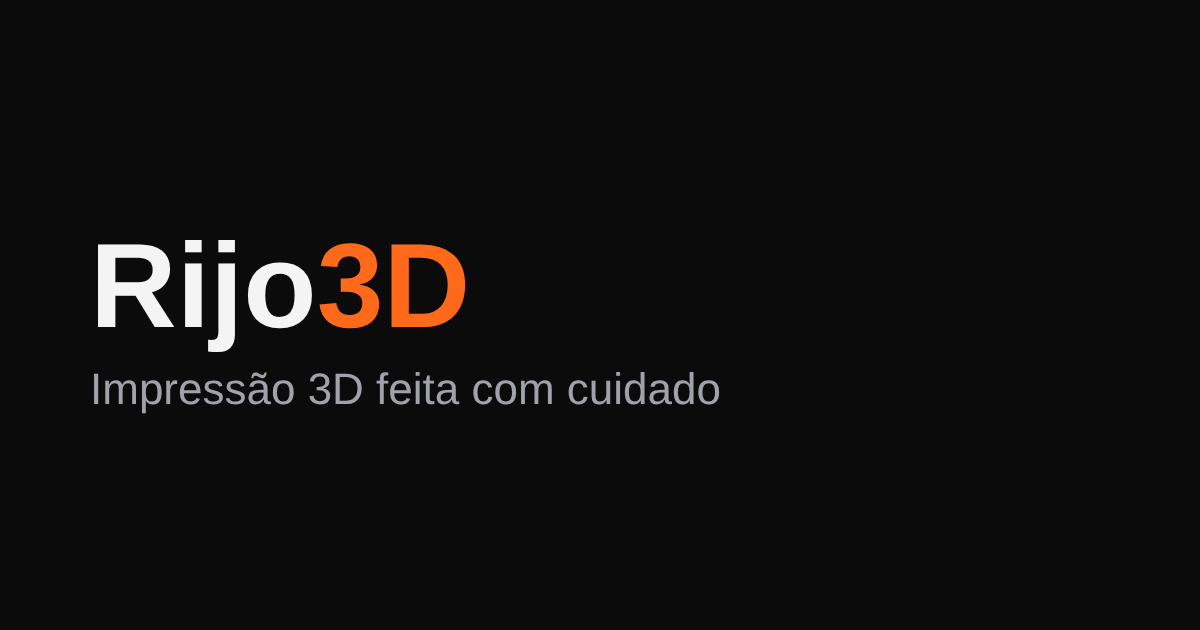
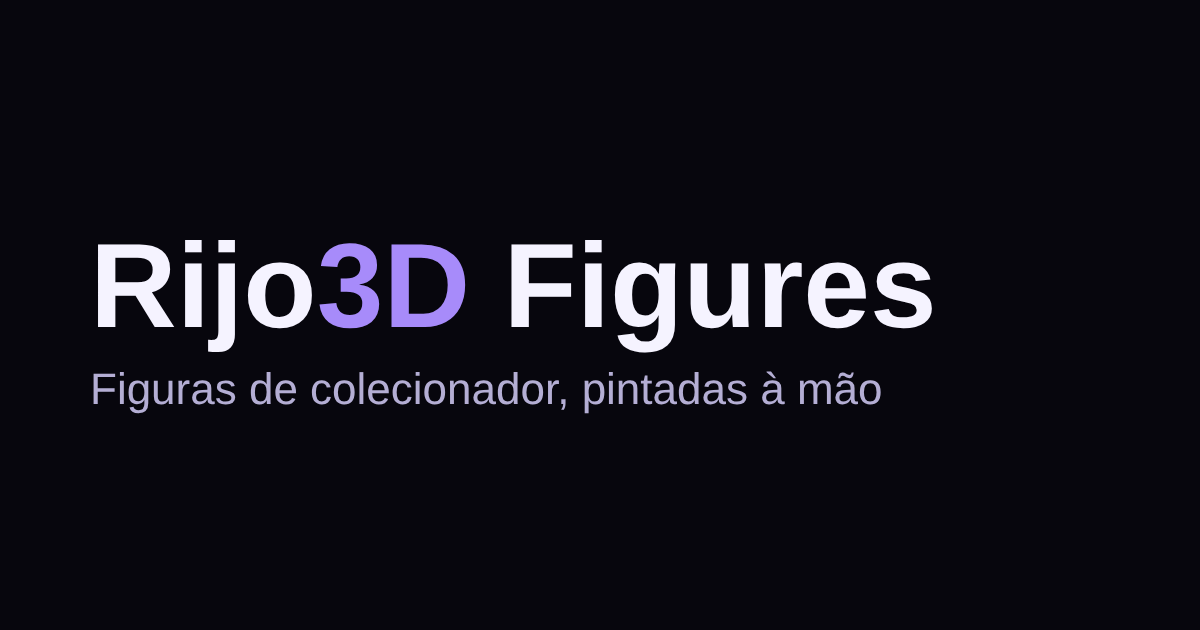
feat: identidade violeta/azul, hero com peça em destaque e textos da cliente
Claude-Session: https://claude.ai/code/session_01UwGUxMdooXWD4wQNEGgByc

Changed region(s): [[0.2467, 0.3619, 0.8017, 0.573], [0.0617, 0.573, 0.74, 0.6635]]

diff --git a/index.html b/index.html
@@ -3,16 +3,16 @@
 <head>
   <meta charset="utf-8">
   <meta name="viewport" content="width=device-width, initial-scale=1">
-  <title>Rijo3d — Impressão 3D</title>
+  <title>Rijo3D Figures — Estátuas em resina pintadas à mão</title>
   <!-- TODO-CLIENTE: confirmar domínio (canonical, og:url, og:image, sitemap.xml) e texto da descrição -->
-  <meta name="description" content="Rijo3d: impressão 3D feita com cuidado. Vê os nossos trabalhos, conhece a história e pede a tua encomenda diretamente pelo site.">
-  <meta name="theme-color" content="#0b0b0c">
+  <meta name="description" content="Rijo3D Figures: estátuas de colecionador em resina, impressas em 3D e pintadas à mão. Enviadas de Portugal. Compra na Etsy ou pede uma versão à tua medida.">
+  <meta name="theme-color" content="#07060d">
   <link rel="canonical" href="https://rijo3d.pt/">
   <meta property="og:type" content="website">
   <meta property="og:locale" content="pt_PT">
-  <meta property="og:site_name" content="Rijo3d">
-  <meta property="og:title" content="Rijo3d — Impressão 3D">
-  <meta property="og:description" content="Impressão 3D feita com cuidado. Vê os trabalhos e pede a tua encomenda.">
+  <meta property="og:site_name" content="Rijo3D">
+  <meta property="og:title" content="Rijo3D Figures — Estátuas pintadas à mão">
+  <meta property="og:description" content="Estátuas de colecionador em resina, pintadas à mão. Compra na Etsy ou pede à tua medida.">
   <meta property="og:url" content="https://rijo3d.pt/">
   <meta property="og:image" content="https://rijo3d.pt/images/og.png">
   <link rel="preconnect" href="https://fonts.googleapis.com">
@@ -38,15 +38,26 @@
   </header>
   <main>
     <section id="inicio" class="hero">
-      <div class="container">
-        <p class="hero__etiqueta">Impressão 3D</p>
-        <!-- TODO-CLIENTE: confirmar título e frase de apoio -->
-        <h1>Ideias que ganham forma, camada a camada.</h1>
-        <p class="hero__texto">Peças impressas em 3D feitas com cuidado, desde protótipos a objetos para o dia a dia.</p>
-        <div class="hero__acoes">
-          <a class="btn btn--primario" href="#encomendas">Pedir encomenda</a>
-          <a class="btn" href="#pecas">Ver peças</a>
+      <div class="container hero__grelha">
+        <div class="hero__texto-bloco">
+          <p class="hero__etiqueta">Rijo3D Figures</p>
+          <!-- TODO-CLIENTE: confirmar título e frase de apoio -->
+          <h1>Figuras de colecionador, pintadas à mão.</h1>
+          <p class="hero__texto">Estátuas em resina impressas em 3D e enviadas de Portugal. Compra na Etsy ou pede uma versão à tua medida.</p>
+          <div class="hero__acoes">
+            <a class="btn btn--primario" href="#pecas">Ver peças</a>
+            <a class="btn" href="#encomendas">Pedir encomenda</a>
+          </div>
+          <ul class="hero__confianca">
+            <li>Pintado à mão</li>
+            <li>Envio de Portugal</li>
+            <li>Devoluções em 14 dias</li>
+          </ul>
         </div>
+        <figure class="hero__visual">
+          <!-- TODO-CLIENTE: trocar por foto real de uma peça -->
+          <img src="images/pecas/kokushibo-1.webp" alt="Estátua do Kokushibo com espada, rodeado por uma lua roxa" width="1000" height="1257" fetchpriority="high">
+        </figure>
       </div>
     </section>
     <section id="pecas">
@@ -69,9 +80,9 @@
     <section id="sobre">
       <div class="container texto-coluna">
         <h2>Quem somos</h2>
-        <!-- TODO-CLIENTE: substituir pela história real e pela origem da ideia -->
-        <p>A Rijo3d dedica-se à impressão 3D. Cada peça é pensada e impressa com atenção ao detalhe, do primeiro desenho ao acabamento.</p>
-        <p>Aqui vais encontrar alguns dos trabalhos feitos e podes pedir a tua encomenda diretamente por este site.</p>
+        <!-- TODO-CLIENTE: acrescentar a história real e a origem da ideia -->
+        <p>Na Rijo3D, transformamos ideias em realidade com tecnologia, criatividade e muita paixão.</p>
+        <p>Cada estátua é impressa em 3D, em resina, e pintada à mão. Podes comprar as peças da loja na Etsy ou pedir-nos uma versão à tua medida.</p>
       </div>
     </section>
     <section id="encomendas">
@@ -121,10 +132,15 @@
           <li><span>Email</span><a href="mailto:email@exemplo.pt">email@exemplo.pt</a></li>
           <li><span>Telefone</span><a href="tel:+351000000000">+351 000 000 000</a></li>
           <li><span>WhatsApp</span><a href="https://wa.me/351000000000">Enviar mensagem</a></li>
+          <li><span>Instagram</span><a href="https://www.instagram.com/TODO-CLIENTE/" target="_blank" rel="noopener noreferrer">@TODO-CLIENTE</a></li>
+          <li><span>Etsy</span><a href="https://www.etsy.com/pt/shop/Rijo3D" target="_blank" rel="noopener noreferrer">Loja Rijo3D</a></li>
         </ul>
       </div>
     </section>
   </main>
+  <footer class="rodape">
+    <div class="container"><p>Rijo3D · Portugal</p></div>
+  </footer>
   <script type="module" src="js/main.js"></script>
 </body>
 </html>

diff --git a/css/styles.css b/css/styles.css
@@ -1,12 +1,14 @@
-/* TODO-CLIENTE: cores e tipografia provisórias; substituir pelas da marca */
+/* TODO-CLIENTE: cores tiradas do banner da Etsy; confirmar com o logótipo */
 :root {
-  --cor-fundo: #0b0b0c;
-  --cor-superficie: #151517;
-  --cor-texto: #f4f4f5;
-  --cor-texto-suave: #a1a1aa;
-  --cor-destaque: #ff6a1a;
-  --cor-sobre-destaque: #120a04;
-  --cor-borda: #2a2a2e;
+  --cor-fundo: #07060d;
+  --cor-superficie: #120f1f;
+  --cor-texto: #f5f3ff;
+  --cor-texto-suave: #b4aed4;
+  --cor-borda: #2a2543;
+  --cor-destaque: #a78bfa;
+  --cor-destaque-a: #7c3aed;
+  --cor-destaque-b: #2563eb;
+  --cor-sobre-destaque: #ffffff;
   --fonte-titulo: "Space Grotesk", system-ui, sans-serif;
   --fonte-corpo: "Archivo", system-ui, sans-serif;
   --espaco-1: 0.25rem;
@@ -37,7 +39,7 @@ a { color: inherit; }
 
 .skip-link {
   position: absolute; left: var(--espaco-3); top: -4rem;
-  background: var(--cor-destaque); color: var(--cor-sobre-destaque);
+  background: var(--cor-destaque-a); color: var(--cor-sobre-destaque);
   padding: var(--espaco-2) var(--espaco-3); border-radius: 8px; z-index: 20;
 }
 .skip-link:focus { top: var(--espaco-3); }
@@ -52,13 +54,13 @@ a { color: inherit; }
   transition: background-color 0.2s ease, border-color 0.2s ease, transform 0.2s ease;
 }
 .btn:hover { border-color: var(--cor-texto-suave); background: var(--cor-superficie); }
-.btn--primario { background: var(--cor-destaque); border-color: var(--cor-destaque); color: var(--cor-sobre-destaque); }
-.btn--primario:hover { background: #ff8340; border-color: #ff8340; }
+.btn--primario { background: linear-gradient(135deg, var(--cor-destaque-a), var(--cor-destaque-b)); border-color: transparent; color: var(--cor-sobre-destaque); }
+.btn--primario:hover { border-color: transparent; background: linear-gradient(135deg, var(--cor-destaque-a), var(--cor-destaque-b)); box-shadow: 0 0 28px -4px var(--cor-destaque-a); }
 
 /* Cabeçalho */
 .site-header {
   position: sticky; top: 0; z-index: 10;
-  background: rgba(11, 11, 12, 0.9); backdrop-filter: blur(8px);
+  background: rgba(7, 6, 13, 0.9); backdrop-filter: blur(8px);
   border-bottom: 1px solid var(--cor-borda);
 }
 .header-inner { display: flex; align-items: center; justify-content: space-between; min-height: 4rem; position: relative; }
@@ -91,7 +93,20 @@ a { color: inherit; }
 /* Secções */
 main > section { padding-block: var(--espaco-6); }
 
-.hero { padding-block: clamp(3rem, 12vw, 8rem); }
+.hero { padding-block: clamp(2.5rem, 8vw, 6rem); overflow-x: clip; }
+.hero__grelha { display: grid; gap: var(--espaco-5); align-items: center; }
+@media (min-width: 56rem) { .hero__grelha { grid-template-columns: 1.1fr 0.9fr; } }
+.hero__visual { position: relative; margin: 0; justify-self: center; width: min(100%, 26rem); }
+.hero__visual::before {
+  content: ""; position: absolute; inset: -12% -18%; z-index: 0; pointer-events: none;
+  background: radial-gradient(closest-side, rgba(124, 58, 237, 0.45), rgba(37, 99, 235, 0.18) 55%, transparent 75%);
+  filter: blur(20px);
+}
+.hero__visual img { position: relative; z-index: 1; width: 100%; height: auto; border-radius: var(--raio); border: 1px solid var(--cor-borda); }
+.hero__confianca { display: flex; flex-wrap: wrap; gap: var(--espaco-2) var(--espaco-4); margin: var(--espaco-5) 0 0; padding: 0; list-style: none; color: var(--cor-texto-suave); font-size: 0.95rem; }
+.hero__confianca li::before { content: "✦"; margin-right: var(--espaco-2); color: var(--cor-destaque); }
+.rodape { padding-block: var(--espaco-5); border-top: 1px solid var(--cor-borda); color: var(--cor-texto-suave); }
+.rodape p { margin: 0; }
 .hero__etiqueta {
   margin: 0 0 var(--espaco-3); color: var(--cor-destaque);
   font: 500 0.95rem var(--fonte-titulo); letter-spacing: 0.12em; text-transform: uppercase;

diff --git a/tests/smoke.spec.js b/tests/smoke.spec.js
@@ -67,8 +67,46 @@ test('todos os links de WhatsApp usam o mesmo número', async ({ page }) => {
 test('README documenta como acrescentar uma foto', async () => {
   const { readFileSync } = await import('node:fs');
   const readme = readFileSync('README.md', 'utf-8');
-  expect(readme).toContain('data/galeria.js');
-  expect(readme).toContain('images/galeria');
+  expect(readme).toContain('data/pecas.js');
+  expect(readme).toContain('images/pecas');
   expect(readme).toContain('access_key');
   expect(readme).toContain('wa.me');
+});
+
+test('hero mostra confiança, imagem em destaque e identidade violeta/azul', async ({ page }) => {
+  await page.goto('/');
+  await expect(page.locator('#inicio')).toContainText('Pintado à mão');
+  await expect(page.locator('#inicio')).toContainText('Envio de Portugal');
+  const img = page.locator('#inicio img');
+  await expect(img).toHaveCount(1);
+  expect((await img.getAttribute('alt')).trim().length).toBeGreaterThan(0);
+  expect(await img.getAttribute('loading')).not.toBe('lazy');
+  expect(await img.evaluate((i) => i.decode().then(() => i.naturalWidth))).toBeGreaterThan(0);
+  const destaque = await page.evaluate(() => getComputedStyle(document.documentElement).getPropertyValue('--cor-destaque-a').trim().toLowerCase());
+  expect(destaque).toBe('#7c3aed');
+});
+
+test('contactos incluem Instagram e Etsy; secção Quem somos usa o texto da cliente', async ({ page }) => {
+  await page.goto('/');
+  await expect(page.locator('#contactos a[href^="https://www.instagram.com/"]')).toHaveCount(1);
+  await expect(page.locator('#contactos a[href^="https://www.etsy.com/pt/shop/Rijo3D"]')).toHaveCount(1);
+  await expect(page.locator('#sobre')).toContainText('transformamos ideias em realidade com tecnologia, criatividade e muita paixão');
+});
+
+test('contraste AA nos pares de cores principais', async ({ page }) => {
+  await page.goto('/');
+  const cores = await page.evaluate(() => {
+    const cs = getComputedStyle(document.documentElement);
+    const g = (n) => cs.getPropertyValue(n).trim();
+    return { fundo: g('--cor-fundo'), superficie: g('--cor-superficie'), texto: g('--cor-texto'), suave: g('--cor-texto-suave'), a: g('--cor-destaque-a'), b: g('--cor-destaque-b'), sobre: g('--cor-sobre-destaque') };
+  });
+  const lum = (hex) => {
+    const [r, g, b] = [1, 3, 5].map((i) => parseInt(hex.slice(i, i + 2), 16) / 255).map((c) => (c <= 0.03928 ? c / 12.92 : ((c + 0.055) / 1.055) ** 2.4));
+    return 0.2126 * r + 0.7152 * g + 0.0722 * b;
+  };
+  const razao = (x, y) => { const [a, b] = [lum(x), lum(y)].sort((m, n) => n - m); return (a + 0.05) / (b + 0.05); };
+  const pares = [['texto', 'fundo'], ['suave', 'fundo'], ['suave', 'superficie'], ['texto', 'superficie'], ['sobre', 'a'], ['sobre', 'b']];
+  for (const [fg, bg] of pares) {
+    expect(razao(cores[fg], cores[bg]), `${fg} sobre ${bg}`).toBeGreaterThanOrEqual(4.5);
+  }
 });

diff --git a/tests/quality.spec.js b/tests/quality.spec.js
@@ -2,7 +2,7 @@ import { test, expect } from '@playwright/test';
 
 test('metadados de SEO e partilha existem', async ({ page }) => {
   await page.goto('/');
-  await expect(page).toHaveTitle(/Rijo3d/);
+  await expect(page).toHaveTitle(/Rijo3D/);
   await expect(page.locator('meta[name="description"]')).toHaveAttribute('content', /.{50,}/);
   await expect(page.locator('meta[property="og:title"]')).toHaveCount(1);
   await expect(page.locator('meta[property="og:description"]')).toHaveCount(1);

diff --git a/README.md b/README.md
@@ -2,23 +2,32 @@
 
 Site simples (HTML, CSS e JavaScript), sem passo de build e sem mensalidades. Este guia explica como mudar as coisas mais comuns.
 
-## Acrescentar uma foto à galeria
+## Acrescentar ou mudar uma peça
 
-1. Põe a imagem na pasta `images/galeria/`. Evita `#`, `?` e `%` no nome do ficheiro (espaços e acentos não há problema). Ideal: formato JPG ou WebP, cerca de 1200 px de largura, abaixo de 300 KB.
-2. Abre `data/galeria.js` e acrescenta uma linha à lista:
+1. Põe as fotos na pasta `images/pecas/`. Evita `#`, `?` e `%` no nome do ficheiro (espaços e acentos não há problema). Ideal: formato WebP ou JPG, cerca de 1000 px de largura, abaixo de 150 KB.
+2. Abre `data/pecas.js` e acrescenta um bloco à lista (a primeira imagem é a capa; as outras aparecem ao ampliar):
 
    ```js
-   { src: 'images/galeria/nome-da-foto.jpg', alt: 'Descrição curta do que se vê', legenda: 'Texto que aparece por baixo' },
+   {
+     id: 'nome-curto',
+     nome: 'Nome da peça',
+     detalhe: 'Estátua em resina, pintada à mão, 40 cm.',
+     preco: '199,99 €',
+     etsyUrl: 'https://www.etsy.com/pt/listing/…',
+     cor: '#7c3aed',
+     imagens: [{ src: 'images/pecas/nome-1.webp', alt: 'Descrição curta do que se vê' }],
+   },
    ```
 
-3. Em `index.html`, procura `<noscript>` e acrescenta a mesma foto lá (serve para quem tem o JavaScript desligado).
-4. Grava. O site atualiza sozinho em cerca de um minuto, se estiver ligado ao Cloudflare Pages.
+3. Em `index.html`, procura `<noscript>` na secção Peças e acrescenta o mesmo cartão lá (serve para quem tem o JavaScript desligado). Um teste automático avisa se ficarem diferentes.
+4. Atualiza o preço também na Etsy: o site não lê a loja, são dois sítios.
+5. Grava. O site atualiza sozinho em cerca de um minuto, se estiver ligado ao Cloudflare Pages.
 
-Para remover uma foto, apaga a linha em `data/galeria.js` e o bloco correspondente no `<noscript>`.
+Para remover uma peça, apaga o bloco em `data/pecas.js` e o cartão correspondente no `<noscript>`.
 
 ## Mudar contactos
 
-Em `index.html`, na secção Contactos, edita o email, o telefone e o link de WhatsApp. O número de WhatsApp aparece também no botão da secção Encomendas: procura `wa.me` e muda nos dois sítios, no formato `https://wa.me/351912345678` (indicativo sem `+`, sem espaços).
+Em `index.html`, na secção Contactos, edita o email, o telefone, o link de WhatsApp e o Instagram (procura `TODO-CLIENTE`). O número de WhatsApp aparece também no botão da secção Encomendas: procura `wa.me` e muda nos dois sítios, no formato `https://wa.me/351912345678` (indicativo sem `+`, sem espaços).
 
 ## Formulário de encomendas
 
@@ -42,7 +51,7 @@ Recomendado: Cloudflare Pages ou Netlify, ligados a este repositório do GitHub 
 
 ## Pedir ajuda ao Claude para editar
 
-Podes abrir este repositório com o Claude e pedir coisas como "acrescenta esta foto à galeria com a legenda X" ou "muda o telefone". Depois de cada alteração, confirma no site que tudo está bem.
+Podes abrir este repositório com o Claude e pedir coisas como "acrescenta esta peça ao catálogo com o preço X" ou "muda o telefone". Depois de cada alteração, confirma no site que tudo está bem.
 
 ## Testes (para quem mantém o código)
 
